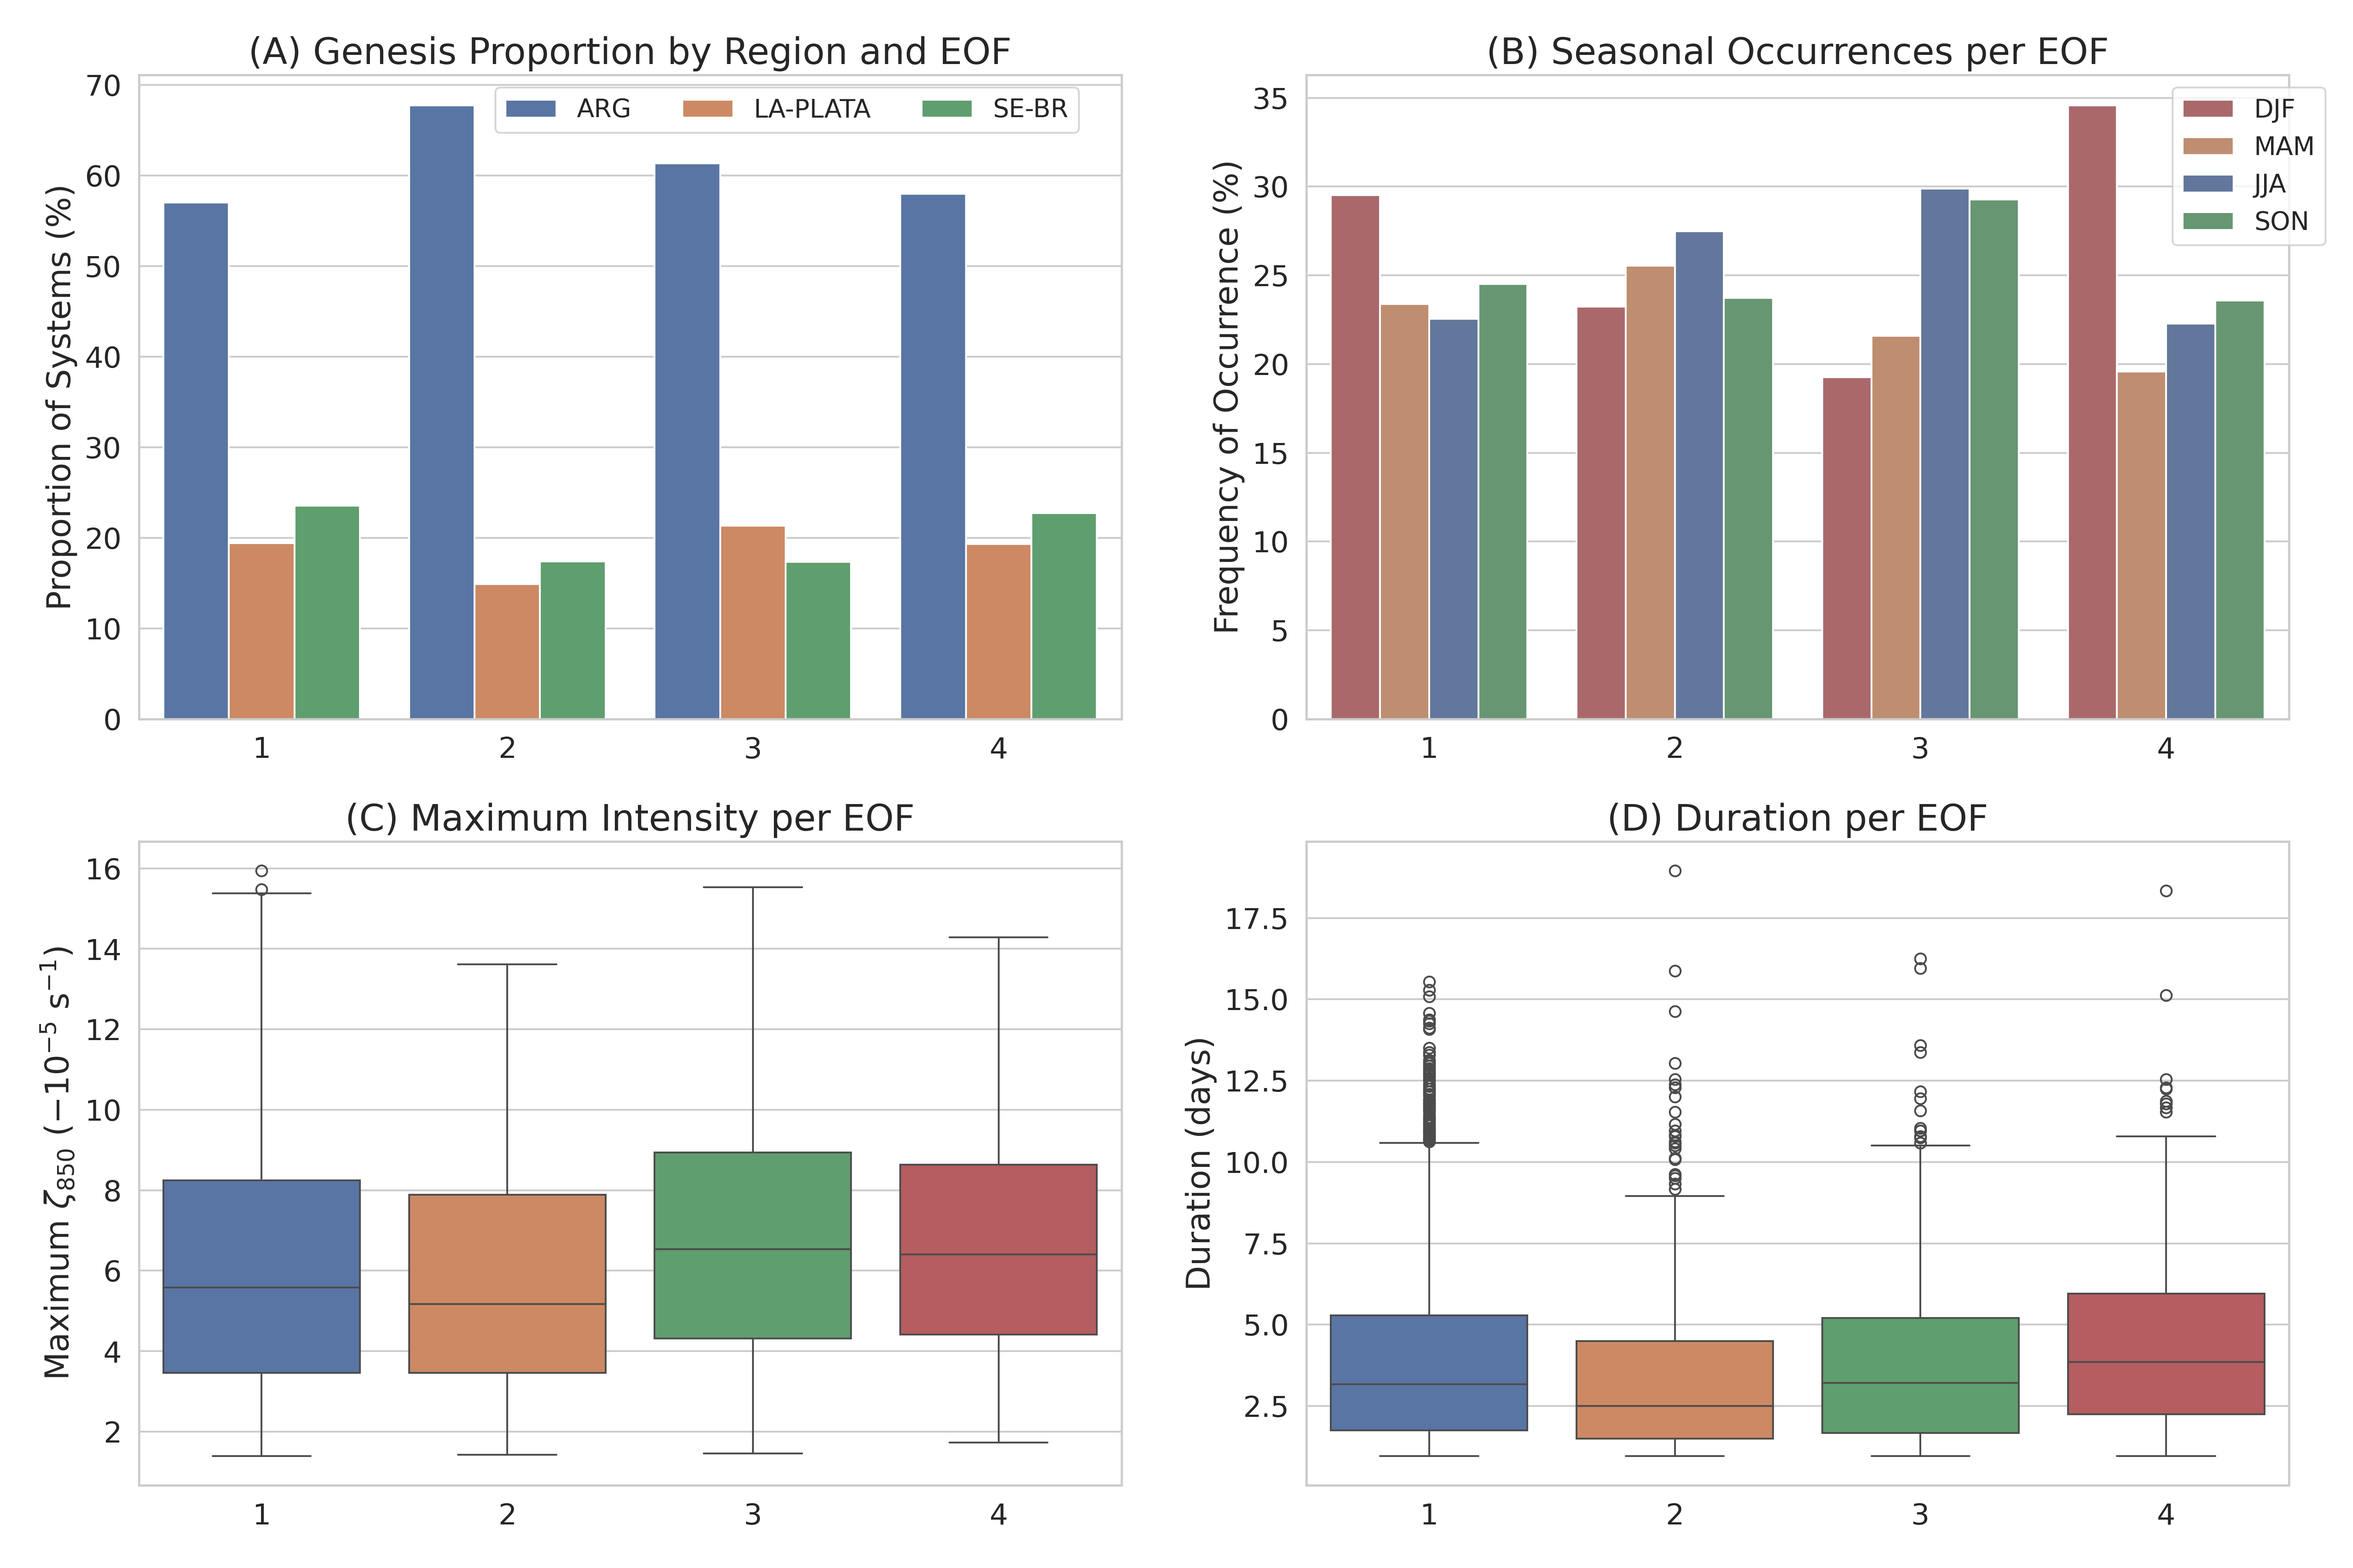
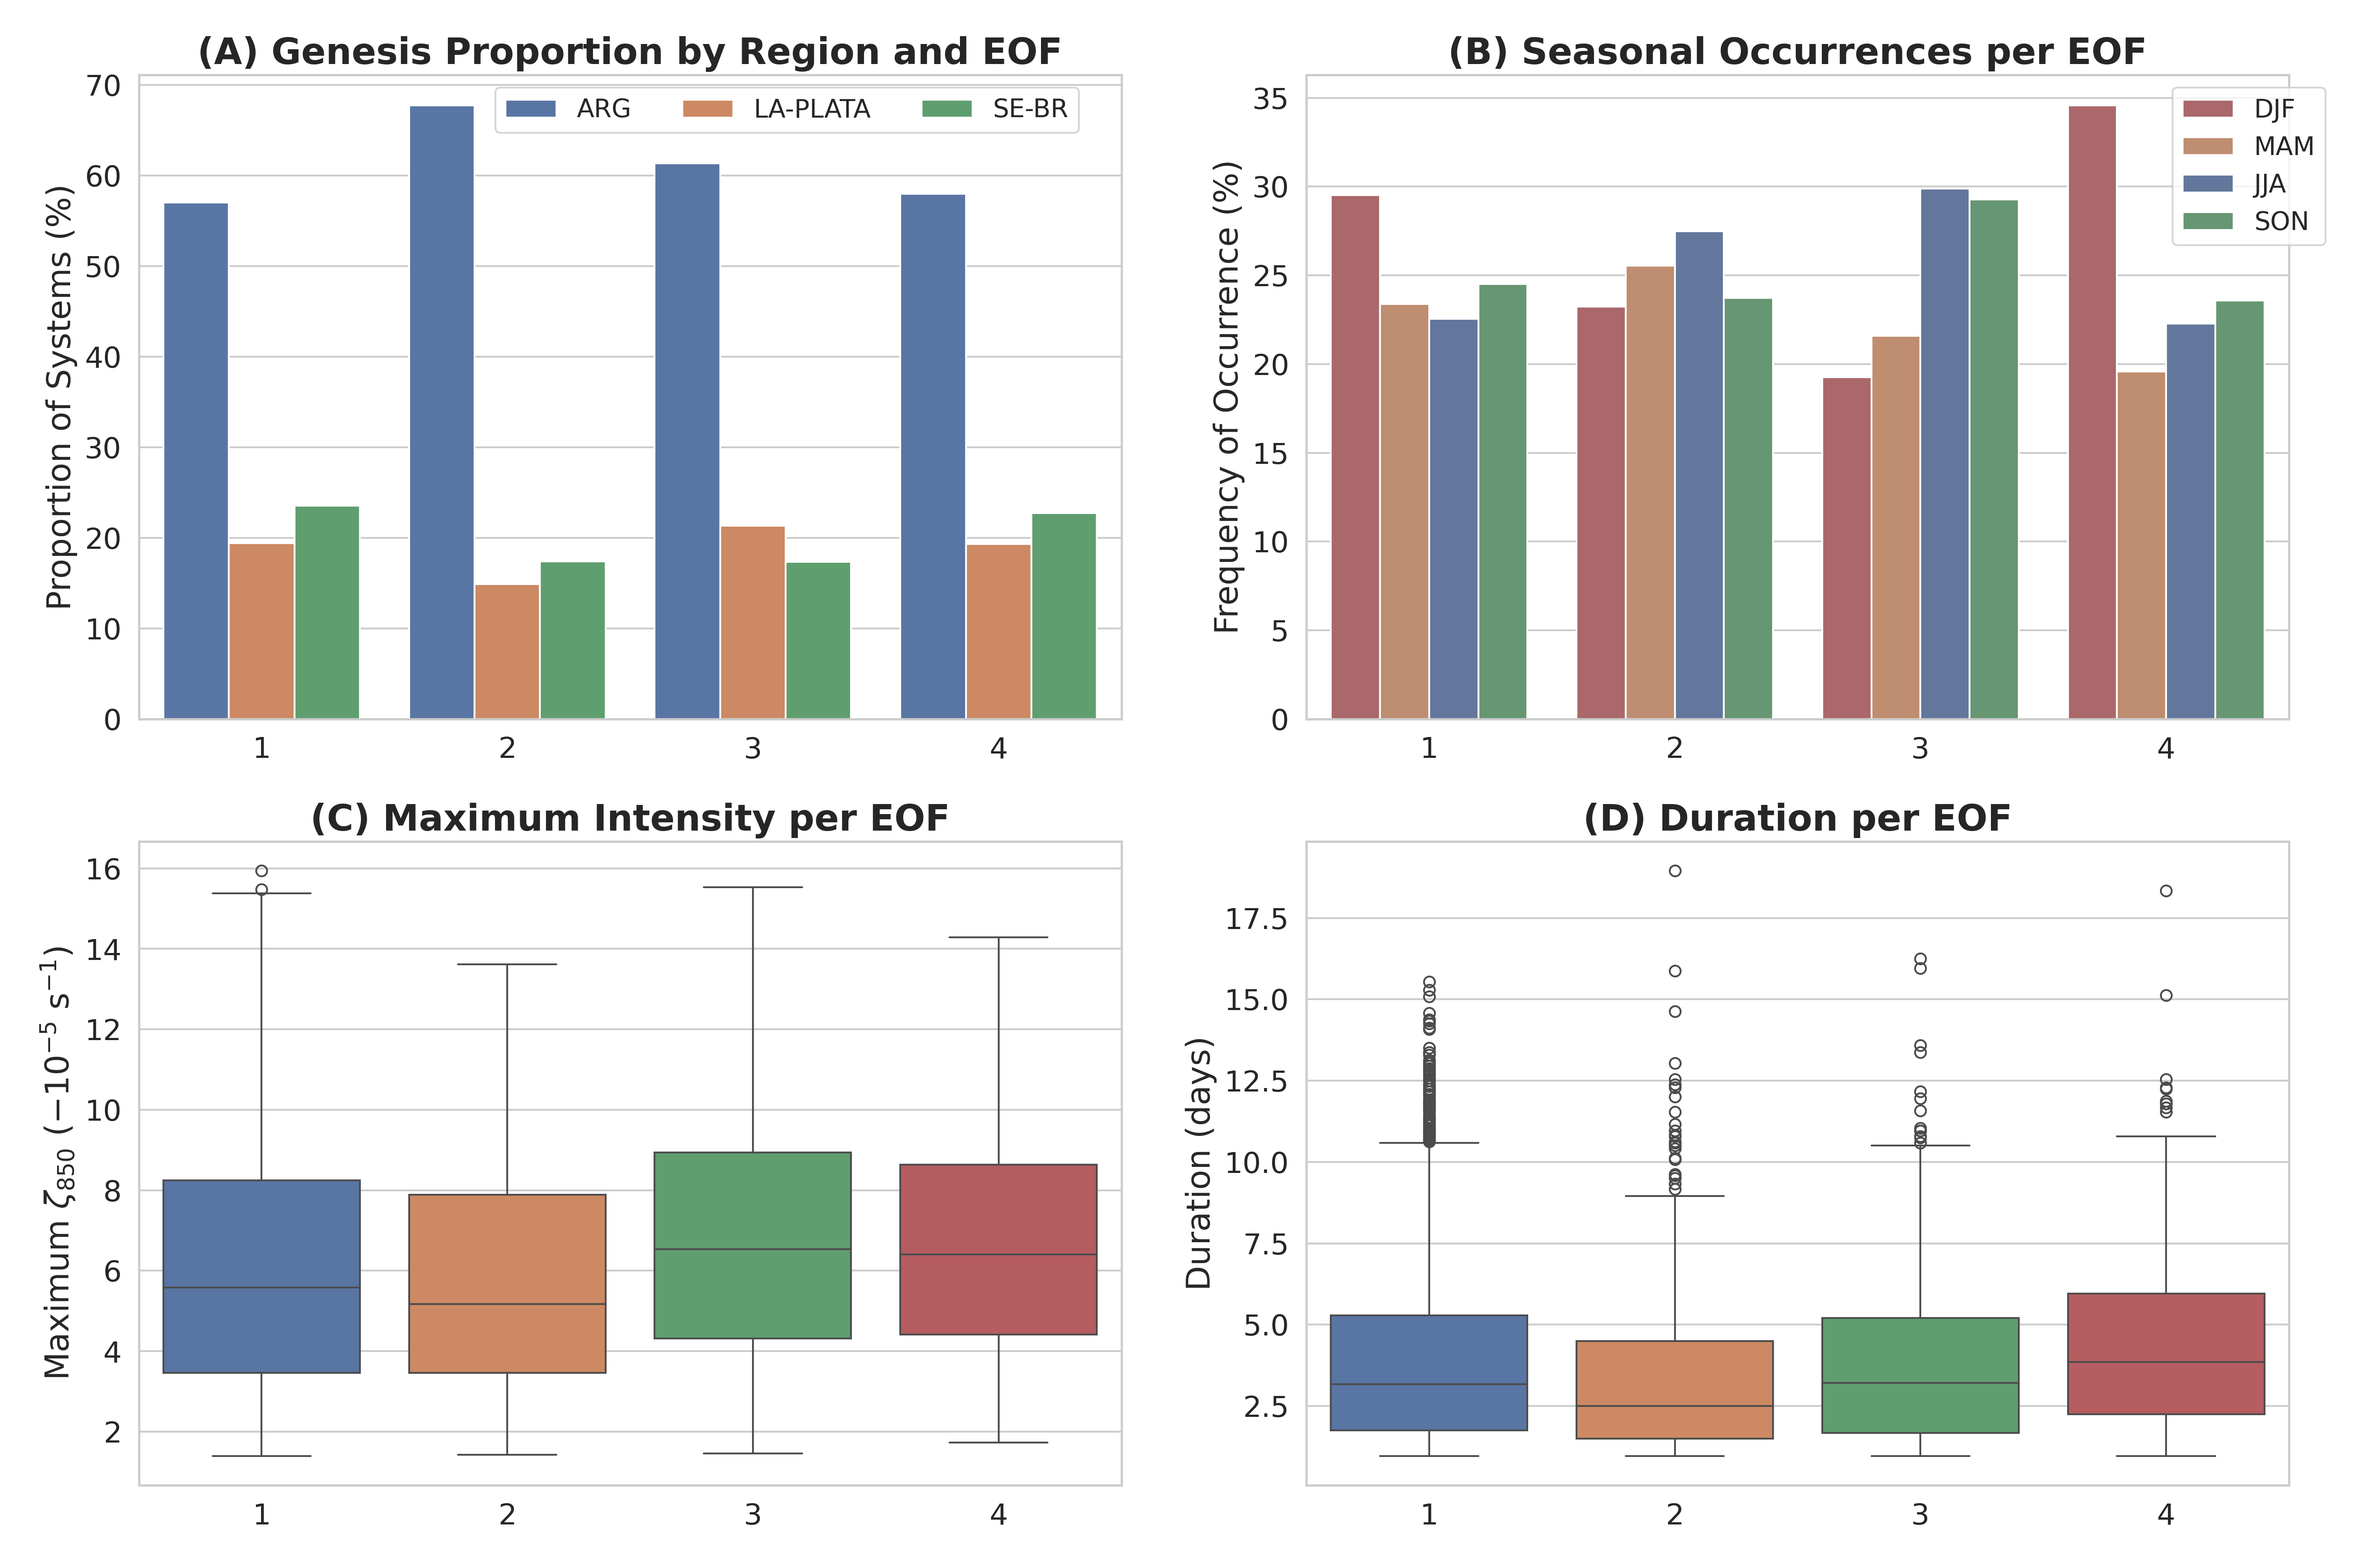
Improved figure

diff --git a/manuscript_lec_climatology/eof_cyclone_statistics.py b/manuscript_lec_climatology/eof_cyclone_statistics.py
@@ -175,7 +175,7 @@ axes[0, 0].set_ylabel('Proportion of Systems (%)', fontsize=ylabel_fontsize)
 axes[0, 0].tick_params(axis='x', labelsize=tick_labelsize)
 axes[0, 0].tick_params(axis='y', labelsize=tick_labelsize)
 axes[0, 0].legend(title=None, fontsize=legend_fontsize, bbox_to_anchor=(0.35, 1.0), ncol=3)
-axes[0, 0].set_title('(A) Genesis Proportion by Region and EOF', fontsize=title_fontsize)
+axes[0, 0].set_title('(A) Genesis Proportion by Region and EOF', fontsize=title_fontsize, fontweight='bold')
 axes[0, 0].set_xlabel('')  # Remover label do eixo X
 
 # Gráfico 2: Sazonalidade
@@ -192,7 +192,7 @@ axes[0, 1].set_ylabel('Frequency of Occurrence (%)', fontsize=ylabel_fontsize)
 axes[0, 1].tick_params(axis='x', labelsize=tick_labelsize)
 axes[0, 1].tick_params(axis='y', labelsize=tick_labelsize)
 axes[0, 1].legend(title=None, fontsize=legend_fontsize, bbox_to_anchor=(1.05, 1.0))
-axes[0, 1].set_title('(B) Seasonal Occurrences per EOF', fontsize=title_fontsize)
+axes[0, 1].set_title('(B) Seasonal Occurrences per EOF', fontsize=title_fontsize, fontweight='bold')
 axes[0, 1].set_xlabel('')  # Remover label do eixo X
 
 # Gráfico 3: Intensidade máxima por EOF (sem região)
@@ -200,7 +200,7 @@ sns.boxplot(data=cyclone_stats, x='dominant_eof', y='max_intensity', palette=pal
 axes[1, 0].set_ylabel(r'Maximum $\zeta_{850}$ ($-10^{-5}$ s$^{-1}$)', fontsize=ylabel_fontsize)
 axes[1, 0].tick_params(axis='x', labelsize=tick_labelsize)
 axes[1, 0].tick_params(axis='y', labelsize=tick_labelsize)
-axes[1, 0].set_title('(C) Maximum Intensity per EOF', fontsize=title_fontsize)
+axes[1, 0].set_title('(C) Maximum Intensity per EOF', fontsize=title_fontsize, fontweight='bold')
 axes[1, 0].set_xlabel('')  # Remover label do eixo X
 
 # Gráfico 4: Duração média por EOF (sem região)
@@ -208,7 +208,7 @@ sns.boxplot(data=cyclone_stats, x='dominant_eof', y='duration', palette=palette,
 axes[1, 1].set_ylabel('Duration (days)', fontsize=ylabel_fontsize)
 axes[1, 1].tick_params(axis='x', labelsize=tick_labelsize)
 axes[1, 1].tick_params(axis='y', labelsize=tick_labelsize)
-axes[1, 1].set_title('(D) Duration per EOF', fontsize=title_fontsize)
+axes[1, 1].set_title('(D) Duration per EOF', fontsize=title_fontsize, fontweight='bold')
 axes[1, 1].set_xlabel('')  # Remover label do eixo X
 
 # Ajustar layout e salvar a figura
